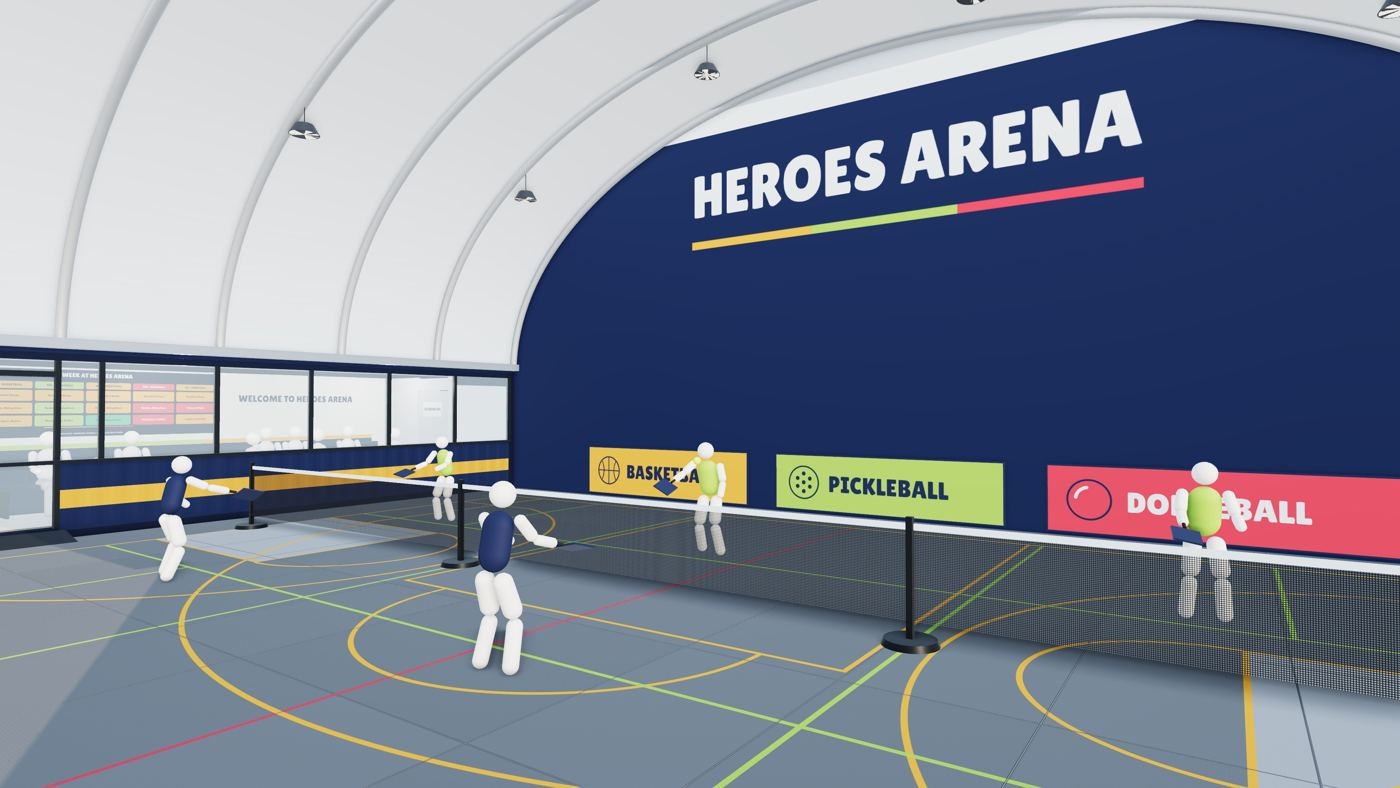
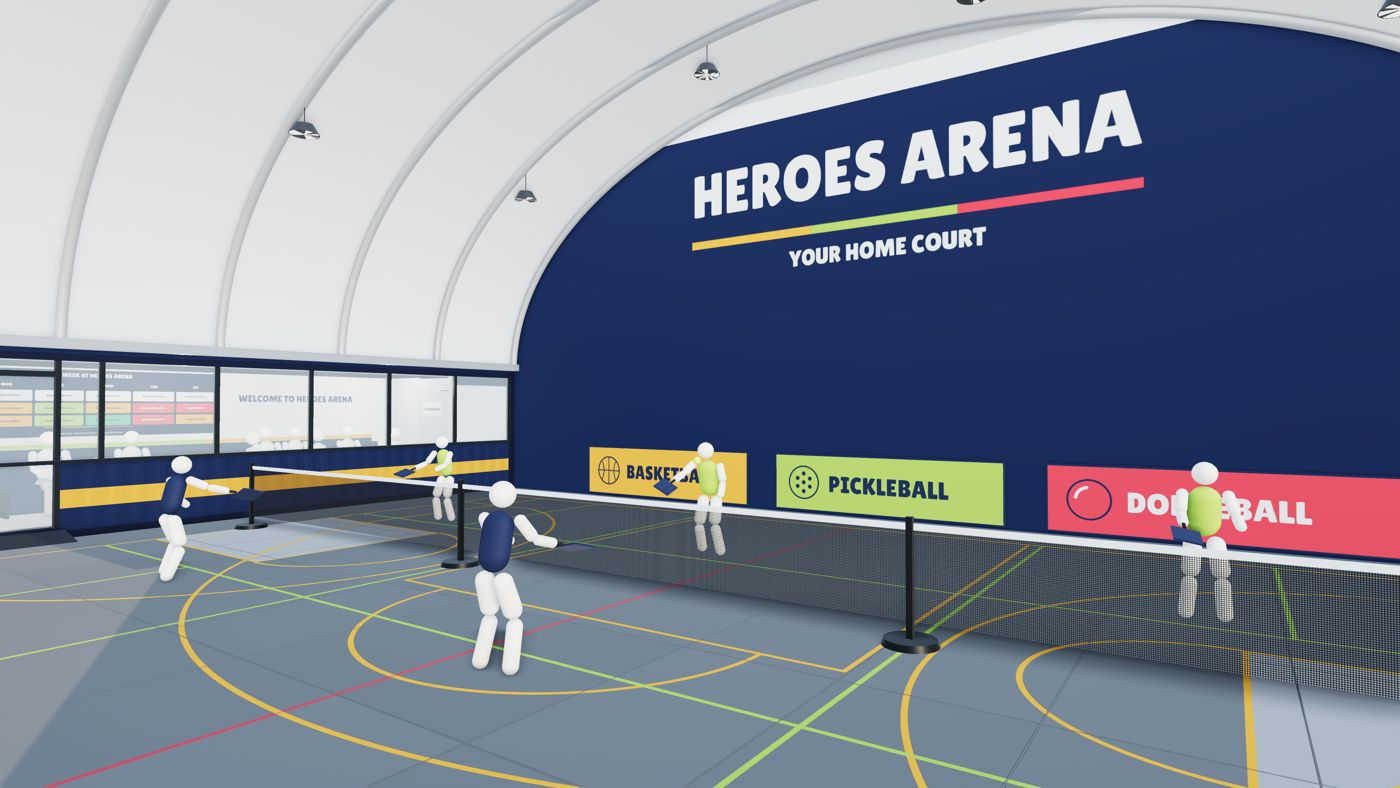
Heroes Arena: new images in decks and microsite; schools deck cover with whole-court view and three inset views
Claude-Session: https://claude.ai/code/session_01UoyugYzmaTfuHsWdpUMhBc

Changed region(s): [[0.5529, 0.2741, 0.7064, 0.335], [0.0, 0.4569, 0.1536, 0.5178]]

diff --git a/court-viz/business/schools-deck/project/slides/cover.html b/court-viz/business/schools-deck/project/slides/cover.html
@@ -1,5 +1,5 @@
 <section id="cover" data-transition="fade" style="background:#14264e;color:#ffffff;font-family:'Montserrat', Arial, sans-serif;padding:128px;display:flex;flex-direction:column;justify-content:center;gap:32px">
-<img src="/_blob/1e15f459b8da1996a9af496a9f6e0e09" alt="Concept render of the Heroes Arena: a white arched canopy on navy containers on a school playground, with Heroes Arena and Your Home Court over the open roller door" style="position:absolute;left:0;top:0;width:1920px;height:1080px;object-fit:cover">
+<img src="/_blob/6ee02553ab062563064c325ff0975840" alt="Concept render inside the Heroes Arena: the whole court from a high corner, children playing basketball under the Heroes Arena sign, with the equipment store and the reception windows" style="position:absolute;left:0;top:0;width:1920px;height:1080px;object-fit:cover">
 <div style="position:absolute;left:0;top:0;width:1920px;height:1080px;background:linear-gradient(90deg, rgba(20,38,78,0.95) 0%, rgba(20,38,78,0.86) 42%, rgba(20,38,78,0) 74%)"></div>
 <p style="font-size:24px;font-weight:700;letter-spacing:2px;text-transform:uppercase;background:#fba91a;color:#14264e;padding:12px 28px;border-radius:999px;align-self:flex-start">Founding school invitation</p>
 <h1 style="font-family:'Lilita One', Arial, sans-serif;font-weight:400;font-size:180px;line-height:1;text-transform:uppercase;color:#ffffff;width:980px">Heroes Arena</h1>
@@ -8,5 +8,11 @@
 <p style="font-size:34px;line-height:1.4;color:#d6dcea;width:900px">Installed, equipped and run for you, at no cost to your school.</p>
 <img src="/_blob/f8cb677fe117212de144ce29c6fcf8e3" alt="Hoop Heroes logo" style="width:240px;height:116px;object-fit:contain;align-self:flex-start">
 <p style="position:absolute;left:128px;bottom:64px;width:900px;font-size:24px;color:#d6dcea">Concept visuals. Subject to planning and consents.</p>
+<img src="/_blob/19ae65aab237a3f7e6fdae84b76555c9" alt="The Heroes Arena from outside on a school playground" style="position:absolute;left:1440px;top:150px;width:352px;height:216px;object-fit:cover;border:4px solid #fba91a;border-radius:16px;box-shadow:4px 4px 0 rgba(0,0,0,0.25)">
+<p style="position:absolute;left:1456px;top:318px;width:160px;font-size:24px;font-weight:700;text-align:center;background:#14264e;color:#ffffff;padding:4px 12px;border-radius:999px">Outside</p>
+<img src="/_blob/3064086d4fa08f21bc3a9c95e9958e6d" alt="Inside the reception: check-in counter, wall seating and the weekly timetable" style="position:absolute;left:1440px;top:398px;width:352px;height:216px;object-fit:cover;border:4px solid #fba91a;border-radius:16px;box-shadow:4px 4px 0 rgba(0,0,0,0.25)">
+<p style="position:absolute;left:1456px;top:566px;width:180px;font-size:24px;font-weight:700;text-align:center;background:#14264e;color:#ffffff;padding:4px 12px;border-radius:999px">Reception</p>
+<img src="/_blob/d7a72c5b3683d791dac748c4f7345746" alt="Top-down plan: reception, court and storage" style="position:absolute;left:1440px;top:646px;width:352px;height:216px;object-fit:cover;border:4px solid #fba91a;border-radius:16px;box-shadow:4px 4px 0 rgba(0,0,0,0.25)">
+<p style="position:absolute;left:1456px;top:814px;width:190px;font-size:24px;font-weight:700;text-align:center;background:#14264e;color:#ffffff;padding:4px 12px;border-radius:999px">From above</p>
 <aside>Lead with the outcome for the school, not the structure: a year-round sports arena, free. Everything else in the deck backs that up.</aside>
 </section>

diff --git a/court-viz/business/schools-deck/project/slides/imagine.html b/court-viz/business/schools-deck/project/slides/imagine.html
@@ -1,7 +1,7 @@
 <section id="imagine" data-transition="fade" style="background:#f8fafc;color:#14264e;font-family:'Montserrat', Arial, sans-serif;padding:128px 128px 160px;display:flex;flex-direction:column;gap:48px">
 <h2 style="font-family:'Lilita One', Arial, sans-serif;font-weight:400;font-size:80px;line-height:1.1;text-transform:uppercase;color:#14264e">Imagine your school with this</h2>
 <div style="display:flex;flex-direction:row;gap:56px;align-items:center">
-<img src="/_blob/d67bec8150cccde0f9754aece3ee0d25" alt="Concept render inside the Heroes Arena: a grey tiled court with gold, green and red lines, children in sport bibs playing 3x3 on one hoop, a big Heroes Arena sign with a three-colour bar, and basketball, pickleball and dodgeball boards" style="width:900px;height:506px;object-fit:cover;border:4px solid #14264e;border-radius:24px;box-shadow:4px 4px 0 rgba(0,0,0,0.1)">
+<img src="/_blob/074a0b8d5aa4e223a4b81ef4645f133b" alt="Concept render inside the Heroes Arena: a grey tiled court with gold, green and red lines, children in sport bibs playing 3x3 on one hoop, a big Heroes Arena sign with a three-colour bar, and basketball, pickleball and dodgeball boards" style="width:900px;height:506px;object-fit:cover;border:4px solid #14264e;border-radius:24px;box-shadow:4px 4px 0 rgba(0,0,0,0.1)">
 <div style="flex:1;display:flex;flex-direction:column;gap:26px">
 <div style="display:flex;flex-direction:row;gap:18px;align-items:center"><x-icon name="CheckCircle" style="color:#14264e;width:44px;height:44px"></x-icon><p style="font-size:30px;font-weight:600;line-height:1.3;color:#14264e">PE every day, whatever the weather</p></div>
 <div style="display:flex;flex-direction:row;gap:18px;align-items:center"><x-icon name="CheckCircle" style="color:#14264e;width:44px;height:44px"></x-icon><p style="font-size:30px;font-weight:600;line-height:1.3;color:#14264e">Your hall freed up for everything else</p></div>

diff --git a/court-viz/business/schools-deck/project/slides/sports.html b/court-viz/business/schools-deck/project/slides/sports.html
@@ -2,8 +2,8 @@
 <h2 style="font-family:'Lilita One', Arial, sans-serif;font-weight:400;font-size:80px;line-height:1.1;text-transform:uppercase;color:#14264e">One space, many sports</h2>
 <p style="font-size:32px;line-height:1.4;color:#334155;width:1580px"><b style="color:#14264e">Basketball is our flagship.</b> Roll the hoops away and the same court hosts pickleball and dodgeball, plus dance, fitness and martial arts.</p>
 <div style="display:flex;flex-direction:row;gap:32px">
-<img src="/_blob/a5eec3c0b600bf1150f33478bdc0e273" alt="Concept render of the Heroes Arena set up for pickleball, children with paddles either side of a low net" style="width:816px;height:290px;object-fit:cover;border:4px solid #14264e;border-radius:24px">
-<img src="/_blob/f0800801c307ebefa69bb8048c388089" alt="Concept render of the Heroes Arena set up for dodgeball, two teams of children either side of the halfway line with foam balls" style="width:816px;height:290px;object-fit:cover;border:4px solid #14264e;border-radius:24px">
+<img src="/_blob/66bab4c6c38d9f7c532aef99ca5d1d5e" alt="Concept render of the Heroes Arena set up for pickleball, children with paddles either side of a low net" style="width:816px;height:290px;object-fit:cover;border:4px solid #14264e;border-radius:24px">
+<img src="/_blob/a734a920d710b2bc39e686c2085bf71b" alt="Concept render of the Heroes Arena set up for dodgeball, two teams of children either side of the halfway line with foam balls" style="width:816px;height:290px;object-fit:cover;border:4px solid #14264e;border-radius:24px">
 </div>
 <div style="display:flex;flex-direction:row;gap:24px">
 <div style="flex:1;display:flex;flex-direction:row;gap:18px;align-items:center;background:#14264e;border-radius:24px;box-shadow:4px 4px 0 rgba(0,0,0,0.1);padding:24px 28px">

diff --git a/court-viz/business/schools-deck/project/slides/hub.html b/court-viz/business/schools-deck/project/slides/hub.html
@@ -1,7 +1,7 @@
 <section id="hub" data-transition="fade" style="background:#f8fafc;color:#14264e;font-family:'Montserrat', Arial, sans-serif;padding:128px 128px 160px;display:flex;flex-direction:column;gap:48px">
 <h2 style="font-family:'Lilita One', Arial, sans-serif;font-weight:400;font-size:80px;line-height:1.1;text-transform:uppercase;color:#14264e">What goes on your playground</h2>
 <div style="display:flex;flex-direction:row;gap:56px;align-items:start">
-<img src="/_blob/a390da673a76390bed8fdcbd4b1292f8" alt="Concept render of the Heroes Arena from outside with its roller door down, showing the arched canopy on navy containers with Heroes Arena on the side" style="width:900px;height:506px;object-fit:cover;border:4px solid #14264e;border-radius:24px;box-shadow:4px 4px 0 rgba(0,0,0,0.1)">
+<img src="/_blob/809a4f1fe7a601163d8964ff6d5c2e40" alt="Concept render of the Heroes Arena from outside with its roller door down, showing the arched canopy on navy containers with Heroes Arena on the side" style="width:900px;height:506px;object-fit:cover;border:4px solid #14264e;border-radius:24px;box-shadow:4px 4px 0 rgba(0,0,0,0.1)">
 <div style="flex:1;display:flex;flex-direction:column;gap:20px">
 <p style="font-size:29px;line-height:1.35;color:#334155"><b style="color:#14264e">Footprint:</b> about 22 × 12 m (270 m², 2,900 sq ft), roughly the size of a tennis court</p>
 <p style="font-size:29px;line-height:1.35;color:#334155"><b style="color:#14264e">Covered, enclosed, LED lit</b>, with a 14.8 × 10 m court</p>

diff --git a/court-viz/business/finance-pack/project/slides/capacity.html b/court-viz/business/finance-pack/project/slides/capacity.html
@@ -15,7 +15,7 @@
 </div>
 <p style="font-size:30px;line-height:1.4;color:#334155">Full by Year 3 is the signal to open <b style="color:#14264e">Arena #2 in Bicester</b>, already next in line.</p>
 </div>
-<img src="/_blob/f770bb3eb793b8deadcf0d4312b0ad44" alt="Top-down plan of the Heroes Arena: reception, court and storage" style="width:700px;height:520px;object-fit:cover;border:4px solid #14264e;border-radius:24px">
+<img src="/_blob/9d0c8c452a73e07672c78ab5122f4146" alt="Top-down plan of the Heroes Arena: reception, court and storage" style="width:700px;height:520px;object-fit:cover;border:4px solid #14264e;border-radius:24px">
 <div style="position:absolute;left:128px;right:128px;bottom:64px;height:56px;display:flex;flex-direction:row;align-items:center;justify-content:space-between">
 <div style="background:#14264e;border-radius:999px;padding:8px 24px;display:flex"><img src="/_blob/84898ed2defa40e3c1c0d148bf14dac6" alt="Hoop Heroes logo" style="width:84px;height:40px;object-fit:contain"></div>
 <p style="font-size:24px;color:#334155">Internal · desk model v0.1 · site profit before central overheads · 7</p>

diff --git a/court-viz/business/finance-pack/project/slides/cover.html b/court-viz/business/finance-pack/project/slides/cover.html
@@ -6,6 +6,6 @@
 <p style="font-size:28px;line-height:1.4;color:#d6dcea">Three years, three cases, and how we pay for it. For the Hoop Heroes team and trusted partners. Not for schools.</p>
 <img src="/_blob/84898ed2defa40e3c1c0d148bf14dac6" alt="Hoop Heroes logo" style="width:220px;height:106px;object-fit:contain">
 </div>
-<img src="/_blob/25db225110189a27fe9d605bc3f5f53b" alt="Concept render of the Heroes Arena on a school playground" style="width:860px;height:560px;object-fit:cover;border:6px solid #fba91a;border-radius:32px">
+<img src="/_blob/0d19d05cee4b0b1a029d4a9b0e11797c" alt="Concept render of the Heroes Arena on a school playground" style="width:860px;height:560px;object-fit:cover;border:6px solid #fba91a;border-radius:32px">
 <aside>Internal only. Every figure comes from the Heroes Arena 3-year model v0.1 (29 Oct 2026), which labels each input as actual, indicative, desk estimate or Jamie's assumption. Site profit is before central overheads.</aside>
 </section>
